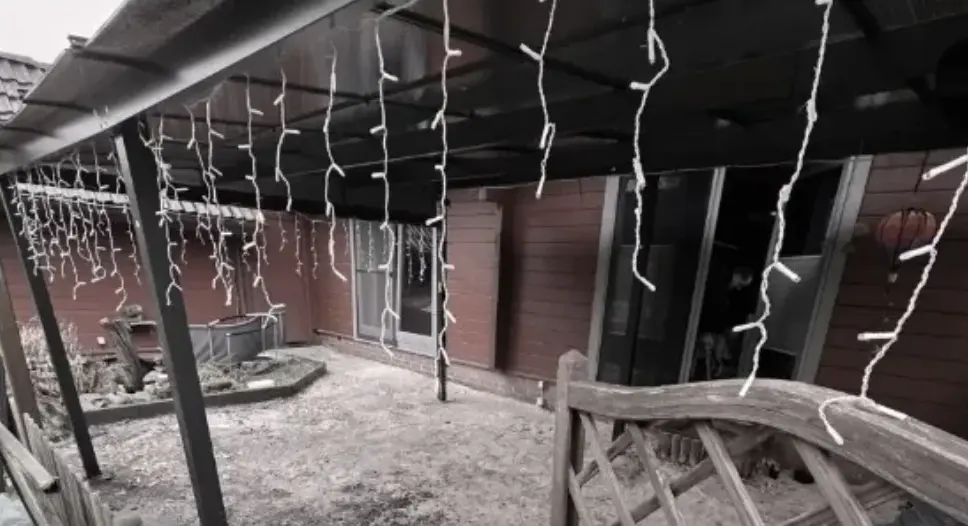
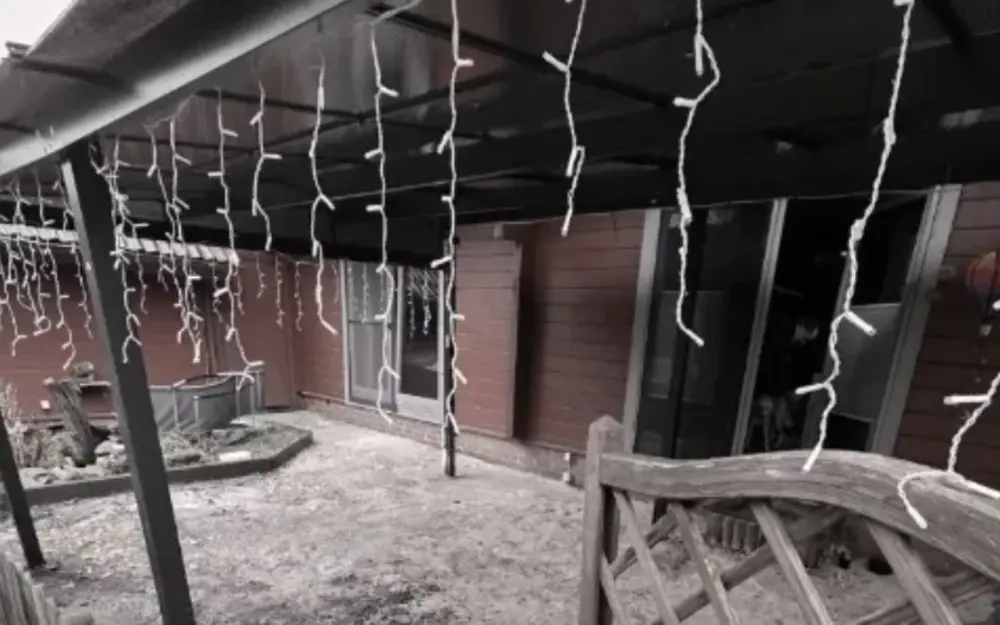
v2 featured project: real before/after, green only on right panel, on top of grid
- Use real NACHHER photo; match before/after to the same frame (1000x625)
- Redesign featured block: no full-green section; green background only on the
  right text panel, slider on the left
- Move the featured before/after to the top of the projects section

Claude-Session: https://claude.ai/code/session_01QPmFeDyG8NoHR9EGXcz6qH

diff --git a/components/v2/FeaturedProjectV2.tsx b/components/v2/FeaturedProjectV2.tsx
@@ -3,80 +3,78 @@ import { ArrowRightIcon } from '@/components/icons';
 import { Sprig } from './LeafDecor';
 import BeforeAfterSlider from './BeforeAfterSlider';
 
+/**
+ * Prominent "featured project" block shown at the top of the projects
+ * section: a before/after drag slider on the left and a green text panel
+ * on the right (only the text panel is green, not the whole section).
+ */
 export default function FeaturedProjectV2() {
   return (
-    <section className="relative overflow-hidden bg-clay py-24 text-sand-50 lg:py-32">
-      <div className="container-content section-padding">
-        {/* Intro row */}
-        <Reveal className="grid gap-8 lg:grid-cols-[1.1fr_0.9fr] lg:items-end">
-          <div>
-            <span className="eyebrow mb-5 text-brand-400">
-              <Sprig className="h-4 w-4 text-brand-400" />
-              Echte Arbeit. Sichtbare Veränderung.
-            </span>
-            <h2 className="font-serif text-4xl font-medium leading-tight sm:text-5xl">
-              Aus Ideen <span className="text-brand-400">werden Gärten.</span>
-            </h2>
-          </div>
-          <p className="text-lg leading-relaxed text-sand-200/80">
-            Eine neue Terrasse verändert mehr als die Fläche: Sie schafft einen
-            Platz, den Sie wieder gern nutzen. Sehen Sie selbst.
+    <Reveal className="mb-16 lg:mb-24">
+      <span className="eyebrow mb-4 text-brand-600">
+        <Sprig className="h-4 w-4 text-brand-500" />
+        Echte Arbeit. Sichtbare Veränderung.
+      </span>
+      <h2 className="font-serif text-4xl font-medium leading-tight text-forest-900 sm:text-5xl">
+        Aus Ideen <span className="text-brand-600">werden Gärten.</span>
+      </h2>
+
+      <div className="mt-8 grid items-stretch gap-6 lg:grid-cols-[1.25fr_0.75fr] lg:gap-8">
+        {/* Before / after slider */}
+        <BeforeAfterSlider
+          before="/images/ba-before.webp"
+          after="/images/ba-after.webp"
+          ratio={1000 / 625}
+          alt="Terrasse vorher und nachher – Gartentraum Schröder"
+        />
+
+        {/* Green text panel */}
+        <div className="flex flex-col justify-center rounded-[1.75rem] bg-clay p-8 text-sand-50 shadow-card sm:p-10">
+          <span className="text-xs font-semibold uppercase tracking-[0.2em] text-brand-400">
+            Terrassen-Umgestaltung
+          </span>
+          <h3 className="mt-3 font-serif text-2xl font-medium leading-tight sm:text-3xl">
+            Vorher Sand. Jetzt Terrasse.
+          </h3>
+          <p className="mt-4 text-[15px] leading-relaxed text-sand-200/85">
+            Vorher eine Fläche mit Sand und provisorischer Nutzung. Danach ein
+            gepflasterter Außenbereich mit klarer Struktur und Platz zum
+            Verweilen.
           </p>
-        </Reveal>
 
-        {/* Before/after + details */}
-        <div className="mt-12 grid gap-10 lg:grid-cols-2 lg:items-center lg:gap-16">
-          <Reveal>
-            <BeforeAfterSlider
-              before="/images/ba-before.webp"
-              after="/images/ba-after.webp"
-              ratio={968 / 526}
-              alt="Terrasse vorher und nachher – Gartentraum Schröder"
-            />
-            <p className="mt-4 text-sm text-sand-200/60">
-              Vorher und nachher: Originalaufnahmen aus einem realisierten
-              Projekt. Ziehen Sie den Regler, um den Unterschied zu sehen.
-            </p>
-          </Reveal>
-
-          <Reveal delay={120}>
-            <span className="eyebrow mb-4 text-brand-400">Terrassen-Umgestaltung</span>
-            <h3 className="font-serif text-3xl font-medium leading-tight sm:text-4xl">
-              Vorher Sand.
-              <br />
-              Jetzt Terrasse.
-            </h3>
-            <p className="mt-5 max-w-md text-lg leading-relaxed text-sand-200/80">
-              Vorher eine Fläche mit Sand und provisorischer Nutzung. Danach ein
-              gepflasterter Außenbereich mit klarer Struktur und Platz zum
-              Verweilen.
-            </p>
-
-            <div className="mt-8 grid grid-cols-2 gap-6 border-t border-sand-50/15 pt-8">
-              <div>
-                <span className="text-xs font-semibold uppercase tracking-[0.2em] text-brand-400">
-                  Das Ziel
-                </span>
-                <p className="mt-2 text-sand-100">Den Außenbereich wieder gern nutzen.</p>
-              </div>
-              <div>
-                <span className="text-xs font-semibold uppercase tracking-[0.2em] text-brand-400">
-                  Das Ergebnis
-                </span>
-                <p className="mt-2 text-sand-100">Eine Terrasse als Teil des Zuhauses.</p>
-              </div>
+          <div className="mt-6 grid grid-cols-2 gap-5 border-t border-sand-50/15 pt-6">
+            <div>
+              <span className="text-[11px] font-semibold uppercase tracking-[0.2em] text-brand-400">
+                Das Ziel
+              </span>
+              <p className="mt-1.5 text-sm text-sand-100">
+                Den Außenbereich wieder gern nutzen.
+              </p>
             </div>
+            <div>
+              <span className="text-[11px] font-semibold uppercase tracking-[0.2em] text-brand-400">
+                Das Ergebnis
+              </span>
+              <p className="mt-1.5 text-sm text-sand-100">
+                Eine Terrasse als Teil des Zuhauses.
+              </p>
+            </div>
+          </div>
 
-            <a
-              href="#kontakt"
-              className="group mt-8 inline-flex items-center gap-2 rounded-full bg-brand-500 px-7 py-3.5 text-sm font-semibold text-forest-900 shadow-soft transition-all hover:-translate-y-0.5 hover:bg-brand-400 hover:shadow-card"
-            >
-              Ähnliches Projekt anfragen
-              <ArrowRightIcon className="h-4 w-4 transition-transform group-hover:translate-x-1" />
-            </a>
-          </Reveal>
+          <a
+            href="#kontakt"
+            className="group mt-7 inline-flex w-fit items-center gap-2 rounded-full bg-brand-500 px-6 py-3 text-sm font-semibold text-forest-900 shadow-soft transition-all hover:-translate-y-0.5 hover:bg-brand-400 hover:shadow-card"
+          >
+            Ähnliches Projekt anfragen
+            <ArrowRightIcon className="h-4 w-4 transition-transform group-hover:translate-x-1" />
+          </a>
         </div>
       </div>
-    </section>
+
+      <p className="mt-4 text-sm text-forest-700/60">
+        Vorher und nachher: Originalaufnahmen aus einem realisierten Projekt.
+        Ziehen Sie den Regler, um den Unterschied zu sehen.
+      </p>
+    </Reveal>
   );
 }

diff --git a/components/v2/ProjectsV2.tsx b/components/v2/ProjectsV2.tsx
@@ -3,6 +3,7 @@ import Reveal from '@/components/Reveal';
 import { asset } from '@/lib/asset';
 import { site } from '@/lib/site';
 import { InstagramIcon, ArrowRightIcon } from '@/components/icons';
+import FeaturedProjectV2 from './FeaturedProjectV2';
 
 type Tile = { src: string; label: string; span: string };
 
@@ -20,6 +21,8 @@ export default function ProjectsV2() {
   return (
     <section id="projekte" className="bg-sand-50 py-24 lg:py-32">
       <div className="container-content section-padding">
+        <FeaturedProjectV2 />
+
         <Reveal className="flex flex-col items-start justify-between gap-6 lg:flex-row lg:items-end">
           <div className="max-w-2xl">
             <span className="eyebrow mb-5 text-brand-600">Projekte & Referenzen</span>

diff --git a/app/v2/page.tsx b/app/v2/page.tsx
@@ -5,7 +5,6 @@ import TrustIntro from '@/components/TrustIntro';
 import ServicesV2 from '@/components/v2/ServicesV2';
 import ProcessV2 from '@/components/v2/ProcessV2';
 import ProjectsV2 from '@/components/v2/ProjectsV2';
-import FeaturedProjectV2 from '@/components/v2/FeaturedProjectV2';
 import WhyUs from '@/components/WhyUs';
 import TestimonialsV2 from '@/components/v2/TestimonialsV2';
 import CTA from '@/components/CTA';
@@ -23,7 +22,6 @@ export default function V2Home() {
         <ServicesV2 />
         <ProcessV2 />
         <ProjectsV2 />
-        <FeaturedProjectV2 />
         <WhyUs />
         <TestimonialsV2 />
         <CTA />
